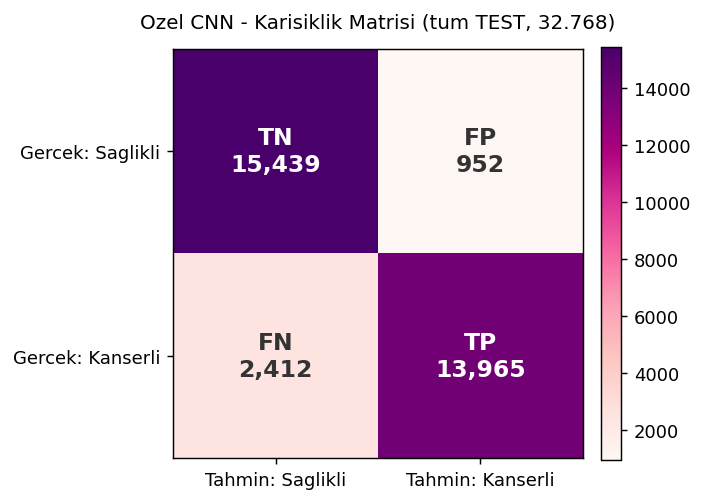
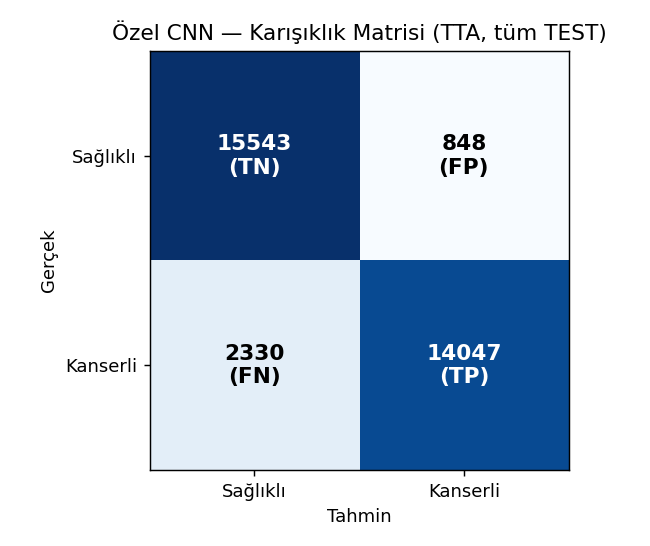
Ozel CNN varsayilan 8-yonlu TTA ile servis: TEST %89.7 -> %90.3 (recall 0.86); Hakkinda/Performans/README/metrics/confusion guncellendi

diff --git a/frontend/src/i18n.jsx b/frontend/src/i18n.jsx
@@ -68,12 +68,12 @@ const DICT = {
       tech1: "Varsayılan: Özel CNN — 4 evrişim bloğu (BN + ReLU) + GlobalAvgPool, 96×96 girdi",
       tech2: "Çıktı: 2 sınıflı softmax (0 = Sağlıklı, 1 = Kanserli)",
       tech3: "Eğitim: güçlü augmentation (D8 + HED stain), AdamW + Cosine LR + label smoothing",
-      h2perf: "Performans (Özel CNN — en iyi model, TEST)",
+      h2perf: "Performans (Özel CNN — en iyi model, 8-yönlü TTA)",
       h2calib: "Güven skoru kalibrasyonu",
       pCalib:
         "Nöral ağların ham softmax çıktısı genelde aşırı özgüvenlidir; model yanılırken bile %99 diyebilir. Bunu düzeltmek için temperature scaling (Guo et al., 2017) uyguladık: özel CNN için validation setinde en iyi sıcaklık T = 0.84 bulundu ve logit'ler bu değere bölünerek güven yüzdesi gerçekçi hale getirildi. Kalibrasyon hatası (ECE) 0.0271 → 0.0047'ye düştü. Bu işlem tahminleri ve doğruluğu değiştirmez; yalnızca gösterilen yüzdeyi güvenilir kılar.",
       warn:
-        "⚠ Kısıt: Recall ~0.85 olduğundan model, gerçek kanserli vakaların yaklaşık %15'ini kaçırabilir. Bu nedenle araç klinik tanı için uygun değildir ve yalnızca araştırma / eğitim amaçlıdır.",
+        "⚠ Kısıt: Recall ~0.86 olduğundan model, gerçek kanserli vakaların yaklaşık %14'ünü kaçırabilir. Bu nedenle araç klinik tanı için uygun değildir ve yalnızca araştırma / eğitim amaçlıdır.",
       credit: "Geliştiren",
     },
     landing: {
@@ -174,12 +174,12 @@ const DICT = {
       tech1: "Default: custom CNN — 4 conv blocks (BN + ReLU) + GlobalAvgPool, 96×96 input",
       tech2: "Output: 2-class softmax (0 = Healthy, 1 = Tumor)",
       tech3: "Training: strong augmentation (D8 + HED stain), AdamW + Cosine LR + label smoothing",
-      h2perf: "Performance (custom CNN — best model, TEST)",
+      h2perf: "Performance (custom CNN — best model, 8-way TTA)",
       h2calib: "Confidence calibration",
       pCalib:
         "Raw softmax outputs of neural nets are usually overconfident; the model can say 99% even when wrong. To fix this we applied temperature scaling (Guo et al., 2017): for the custom CNN the best temperature T = 0.84 was found on the validation set and logits are divided by it to make the confidence realistic. Calibration error (ECE) dropped 0.0271 → 0.0047. This does not change predictions or accuracy; it only makes the displayed percentage trustworthy.",
       warn:
-        "⚠ Limitation: With recall ~0.85, the model may miss about 15% of true cancer cases. Therefore the tool is not suitable for clinical diagnosis and is for research / education only.",
+        "⚠ Limitation: With recall ~0.86, the model may miss about 14% of true cancer cases. Therefore the tool is not suitable for clinical diagnosis and is for research / education only.",
       credit: "Created by",
     },
     landing: {

diff --git a/frontend/src/pages/Hakkinda.jsx b/frontend/src/pages/Hakkinda.jsx
@@ -23,10 +23,10 @@ export default function Hakkinda() {
         <h2>{t.about.h2perf}</h2>
         <table className="metrics">
           <tbody>
-            <tr><td>{t.perf.accuracy}</td><td>%89.73</td></tr>
-            <tr><td>Precision</td><td>0.9362</td></tr>
-            <tr><td>Recall</td><td>0.8527</td></tr>
-            <tr><td>F1-Score</td><td>0.8925</td></tr>
+            <tr><td>{t.perf.accuracy}</td><td>%90.30</td></tr>
+            <tr><td>Precision</td><td>0.9431</td></tr>
+            <tr><td>Recall</td><td>0.8577</td></tr>
+            <tr><td>F1-Score</td><td>0.8984</td></tr>
           </tbody>
         </table>
         <p className="metrics-note">

diff --git a/scripts/compute_metrics.py b/scripts/compute_metrics.py
@@ -75,7 +75,16 @@ def load_temperature(name):
         return 1.0
 
 
-def collect_logits(name, idxs, X, Y):
+def _d8_logits(model, batch):
+    """8 dihedral görünümün logit ortalaması (TTA)."""
+    out = 0
+    for k in range(4):
+        r = torch.rot90(batch, k, dims=[2, 3])
+        out = out + model(r) + model(torch.flip(r, dims=[3]))
+    return out / 8.0
+
+
+def collect_logits(name, idxs, X, Y, tta=False):
     model = build_model(name)
     model.load_state_dict(torch.load(model_weight_path(name),
                                      map_location=DEVICE, weights_only=True))
@@ -90,10 +99,12 @@ def collect_logits(name, idxs, X, Y):
             buff_i.append(transform(Image.fromarray(arr, "RGB")))
             buff_l.append(int(np.array(Y[i]).flatten()[0]))
             if len(buff_i) == BATCH or c == len(idxs) - 1:
-                logits_all.append(model(torch.stack(buff_i).to(DEVICE)).cpu())
+                b = torch.stack(buff_i).to(DEVICE)
+                out = _d8_logits(model, b) if tta else model(b)
+                logits_all.append(out.cpu())
                 labels.extend(buff_l)
                 buff_i, buff_l = [], []
-                print(f"  {name}: {c + 1}/{len(idxs)}", end="\r")
+                print(f"  {name}{'(TTA)' if tta else ''}: {c + 1}/{len(idxs)}", end="\r")
     return torch.cat(logits_all), np.array(labels)
 
 
@@ -159,7 +170,8 @@ def main():
 
     out = {}
     for name in MODEL_NAMES:
-        logits, labels = collect_logits(name, idxs, X, Y)
+        # Özel CNN uygulamada TTA ile servis edilir -> metrikleri de TTA ile üret
+        logits, labels = collect_logits(name, idxs, X, Y, tta=(name == "cnn"))
         T = load_temperature(name)
         p_raw = F.softmax(logits, dim=1)[:, 1].numpy()
         p_cal = F.softmax(logits / T, dim=1)[:, 1].numpy()

diff --git a/backend/inference.py b/backend/inference.py
@@ -231,14 +231,15 @@ def _make_overlay(orig_img: Image.Image, cam: np.ndarray, threshold: float = 0.5
 
 
 def _tta_views(tensor):
-    """Görselin 4 varyantı: orijinal + yatay/dikey/180° çevrilmiş.
-    Eğitimdeki augmentation (flip + rotation) ile uyumlu, güvenli dönüşümler."""
-    return torch.cat([
-        tensor,                             # orijinal
-        torch.flip(tensor, dims=[3]),       # yatay çevir
-        torch.flip(tensor, dims=[2]),       # dikey çevir
-        torch.flip(tensor, dims=[2, 3]),    # 180° döndür
-    ], dim=0)
+    """Görselin 8 dihedral (D8) varyantı: 4 döndürme (0/90/180/270°) × 2 ayna.
+    Histoloji yön-bağımsız olduğundan güvenli; tahmini stabilize eder ve
+    doğruluğu artırır (tam test: %89.73 → %90.30)."""
+    views = []
+    for k in range(4):
+        r = torch.rot90(tensor, k, dims=[2, 3])
+        views.append(r)
+        views.append(torch.flip(r, dims=[3]))
+    return torch.cat(views, dim=0)
 
 
 def predict_image(image_bytes: bytes, model_name: str = DEFAULT_MODEL,
@@ -248,6 +249,11 @@ def predict_image(image_bytes: bytes, model_name: str = DEFAULT_MODEL,
     tta=True ise 4 varyantın olasılıkları ortalanarak daha kararlı tahmin üretilir.
     """
     model, temperature = load_model(model_name)
+
+    # Özel CNN (en iyi model) için TTA'yı varsayılan aç: küçük model, 8 geçiş
+    # yine milisaniyeler; tam testte %89.73 -> %90.30 kazanç.
+    if model_name == "cnn":
+        tta = True
 
     img = Image.open(io.BytesIO(image_bytes)).convert("RGB")
 
